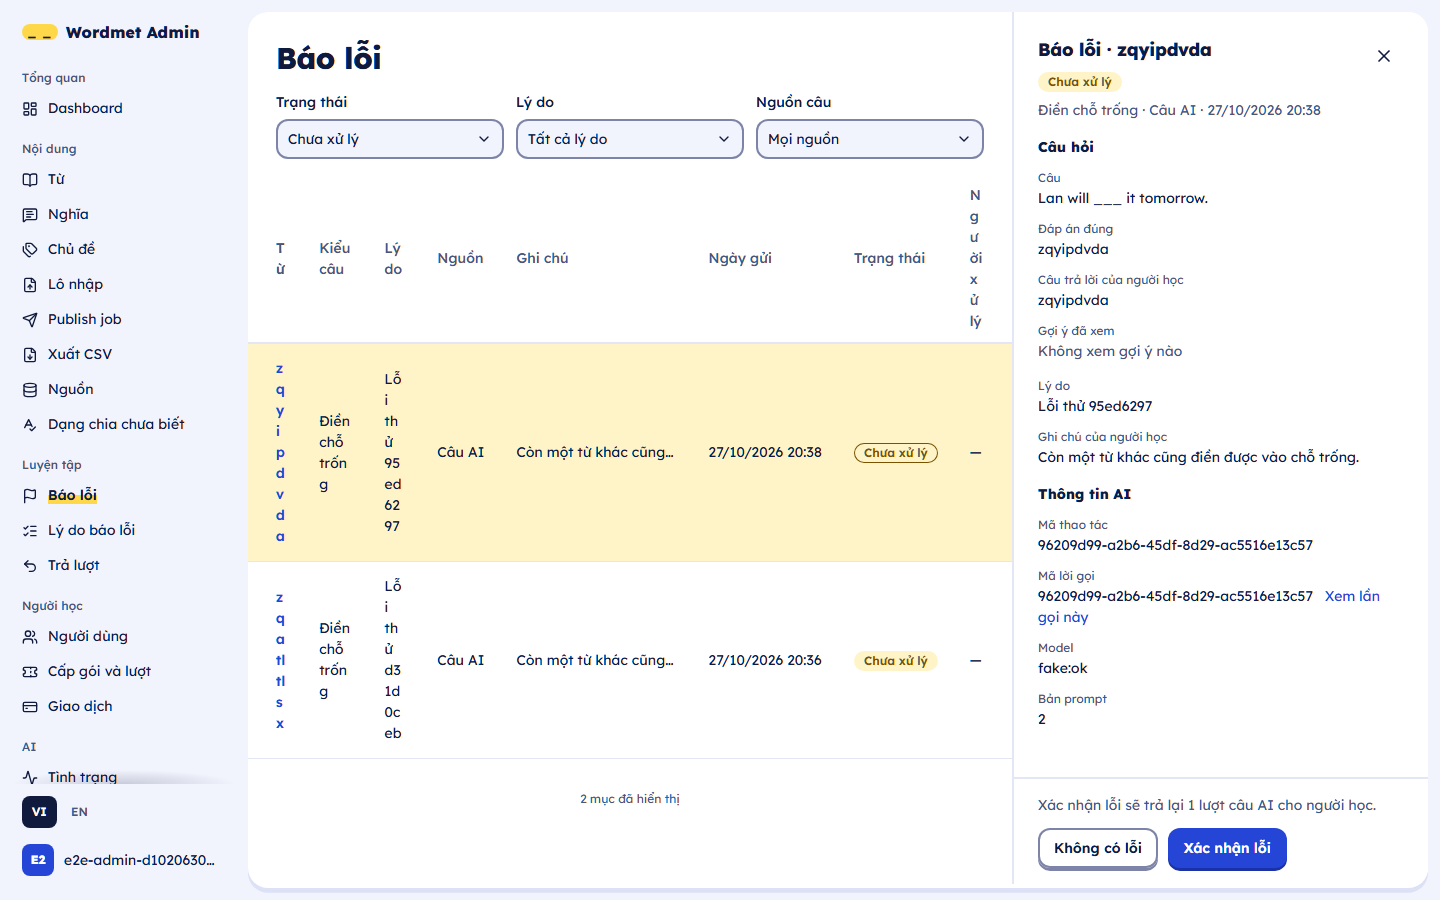
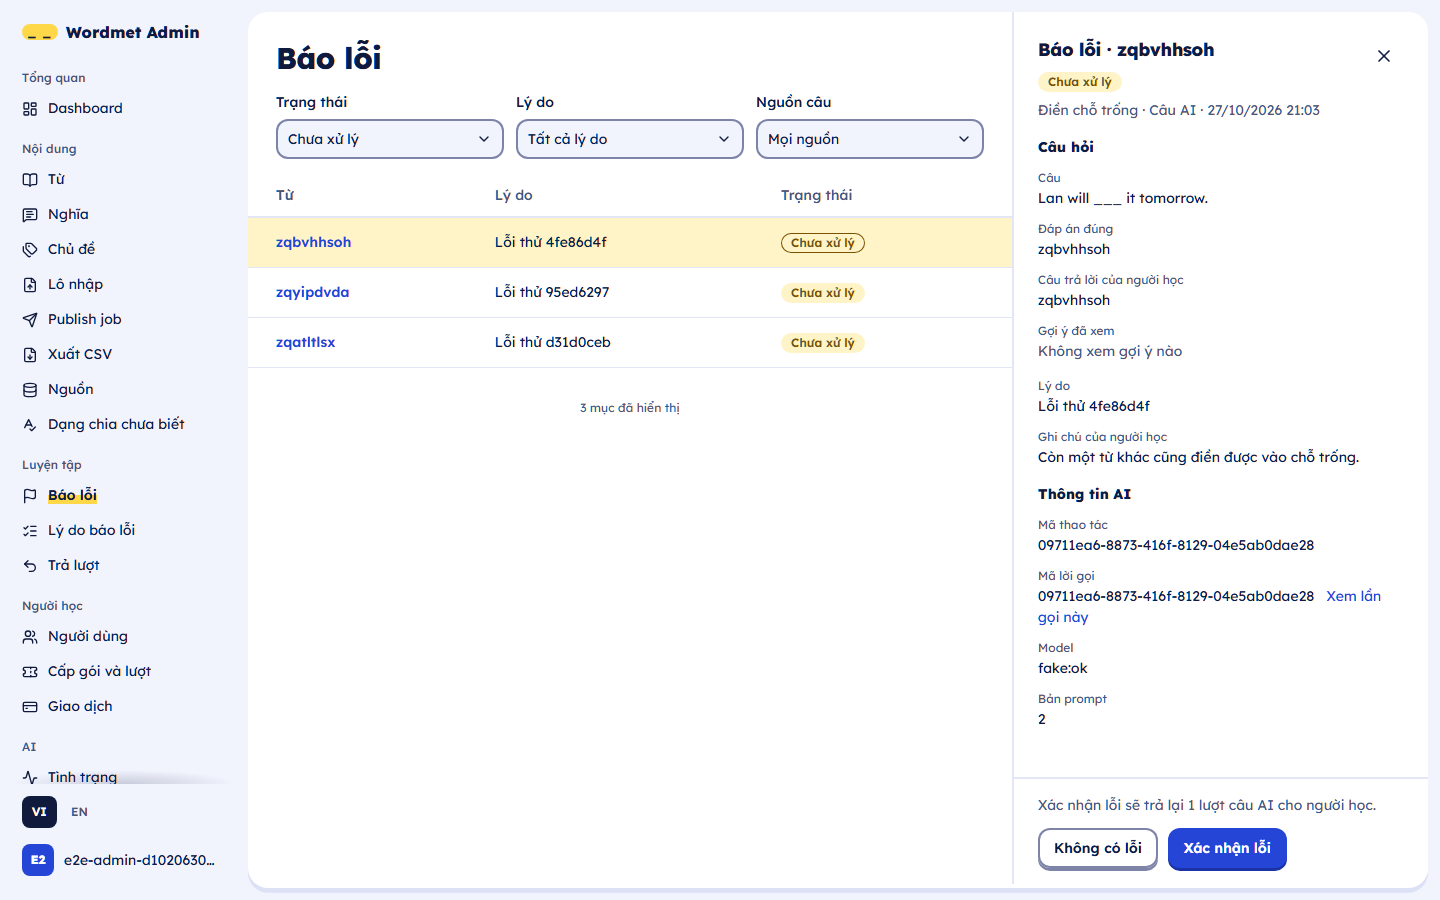
fix(admin): show fewer report columns beside the open report

diff --git a/apps/admin/src/features/reports/ReportsPage.test.tsx b/apps/admin/src/features/reports/ReportsPage.test.tsx
@@ -63,6 +63,16 @@ describe('reports list', { timeout: 20_000 }, () => {
     expect(screen.getAllByText('Nghĩa sai').length).toBeGreaterThan(0);
   });
 
+  it('§6.8: closed, the table has all eight columns; with a report open only Từ, Lý do and Trạng thái stay', async () => {
+    const headers = () => screen.queryAllByRole('columnheader').map((h) => h.textContent);
+    const all = [t.cols.word, t.cols.type, t.cols.reason, t.cols.source, t.cols.note, t.cols.sentAt, t.cols.status, t.cols.resolvedBy];
+    const closed = renderApp('/reports', { [LIST]: () => json(page([report()])), [REASONS]: () => json(reasons) });
+    await waitFor(() => expect(headers()).toEqual(all));
+    closed.unmount();
+    open({ [ONE]: () => json(report()) });
+    await waitFor(() => expect(headers()).toEqual([t.cols.word, t.cols.reason, t.cols.status]));
+  });
+
   it('§6.8: the filters go into the request (status, reason, source)', async () => {
     const url = '/v1/admin/practice/reports?status=confirmed&reason=other&source=ai&page_size=20';
     const r = renderApp('/reports?status=confirmed&reason=other&source=ai', {

diff --git a/apps/admin/src/features/reports/ReportsPage.tsx b/apps/admin/src/features/reports/ReportsPage.tsx
@@ -68,7 +68,7 @@ export function ReportsPage() {
   // The filters stay in the URL while a report is open, so closing the panel returns to the same list.
   const href = (r: Report) => `/reports/${r.id}${search}`;
 
-  const columns: Column<Report>[] = [
+  const allColumns: Column<Report>[] = [
     {
       key: 'word', header: t('reports.cols.word'), className: 'wrap-anywhere font-semibold',
       cell: (r) => (
@@ -99,6 +99,9 @@ export function ReportsPage() {
     },
     { key: 'resolvedBy', header: t('reports.cols.resolvedBy'), card: 'field', className: 'wrap-anywhere', cell: (r) => r.resolved_by_user ? userLabel(r.resolved_by_user, t('common.systemUser')) : (r.resolved_by_role ?? '—') },
   ];
+
+  // Beside the open report the table only has room for the word, the reason and the status; the rest is in the panel.
+  const columns = panelId === undefined ? allColumns : allColumns.filter((c) => ['word', 'reason', 'status'].includes(c.key));
 
   const reasonItems = [
     { id: 'all', label: t('reports.filters.allReasons') },

diff --git a/docs/deliveries/giao-dien-admin.md b/docs/deliveries/giao-dien-admin.md
@@ -181,8 +181,9 @@ A/74c `389:3417`, A/75 `393:2300`, A/75b `393:2876`, A/76 `393:3535`, A/77 `393:
 (*) Trên DB dùng chung danh sách thật không bao giờ trống, nên riêng khung này câu trả lời của danh sách được thay bằng danh sách rỗng khi chụp.
 
 Khác biệt nhìn thấy ở ảnh thật (chưa mở Figma để so từng điểm):
-- A/73 / A/74 ở 1440 khi panel chi tiết đang mở: bảng bị ép hẹp, cột "Từ", "Lý do", "Người xử lý" xuống dòng từng chữ cái. Đây là lỗi bố cục thật của màn Báo lỗi
-  (panel chiếm khoảng 415px bên phải), chưa sửa; nên cho bảng cuộn ngang trong tờ trắng hoặc ẩn bớt cột khi panel mở.
+- Đã sửa sau khi chụp lần đầu: ở 1440 khi panel báo lỗi đang mở, bảng 8 cột bị ép và cột Từ / Lý do / Người xử lý xuống dòng từng chữ cái. Giờ khi có panel mở bảng chỉ giữ
+  ba cột Từ, Lý do, Trạng thái (phần còn lại đã nằm trong panel); không mở panel thì đủ 8 cột. Ảnh A/74 và A/74c desktop chụp lại sau sửa; ở 1280 panel là tờ phủ lên
+  và không ô nào xuống dòng từng chữ (đã kiểm bằng script). Thẻ ở 390 không đổi. Commit `fix(admin): show fewer report columns beside the open report`.
 - Ô ngày của Trả lượt hiện `mm/dd/yyyy` theo ngôn ngữ của trình duyệt chụp (Chrome en-US), không theo ngôn ngữ của app.
 - A/75b: ảnh phone là cả trang, hộp thoại nằm trên đầu trang còn bảng phía sau vẫn hiện (là cách chụp fullPage, không phải lỗi hộp thoại).
 - Khung A/74c có thêm lỗi 409 (báo lỗi đã xử lý); ảnh thật chụp báo lỗi đã xử lý thành công, không có lỗi 409 (đã có trong test mock e2e).
@@ -195,7 +196,9 @@ Khác biệt nhìn thấy ở ảnh thật (chưa mở Figma để so từng đi
 - `pnpm --filter admin test:e2e` (cổng 5391, mock): **165 passed, 55 skipped** (bốn màn thêm vào a11y và kiểm không cuộn ngang ở 390).
 - Unit, lint, typecheck: số ở báo lỗi của Task 30 (`.superpowers/sdd/2026-10-27-giao-dien-admin/task-30-report.md`).
 - Chưa kiểm: CI trên PR; sau [Hoàn tác] dòng có quay lại danh sách thật hay không (test thật chỉ kiểm toast); lần chạy đầy đủ từ đầu với phiên mới (khi lặp đã dùng `E2E_REUSE_STATE`; lần đầu 10/10 cũ + M3 đã chạy trước khi sửa lỗi session id của seed).
-- Lưu ý chạy tại máy: CLI `admin:grant` cần `.env` của một API worktree có `.env` (`E2E_API_DIR`) cùng `DATABASE_URL` của stack đang chạy.
+- Cách chạy `grantAdmin` tại máy: worktree này không có `.env`, nên đặt `E2E_API_DIR` = `apps/api` của worktree `giao-dien-admin` (có `dist/cli/admin-grant.js` đã build và `.env`; CLI tự nạp
+  `.env` đó, người chạy không đọc nó) và ghi đè `DATABASE_URL` (trỏ DB `english_learning_admin_m3` của stack đang chạy), `JOB_QUEUE_PREFIX=wordmet-admin-m3`, `AI_FAKE_ENABLED=true` bằng biến môi trường
+  (`process.loadEnvFile` không đè biến đã có). Nếu không đè `DATABASE_URL`, CLI sẽ cấp quyền admin vào DB của `.env` kia thay vì DB của stack.
 
 ## Câu chữ tự viết (không có trong copy doc §8.4–8.7; chủ dự án duyệt lại khi cần)
 
